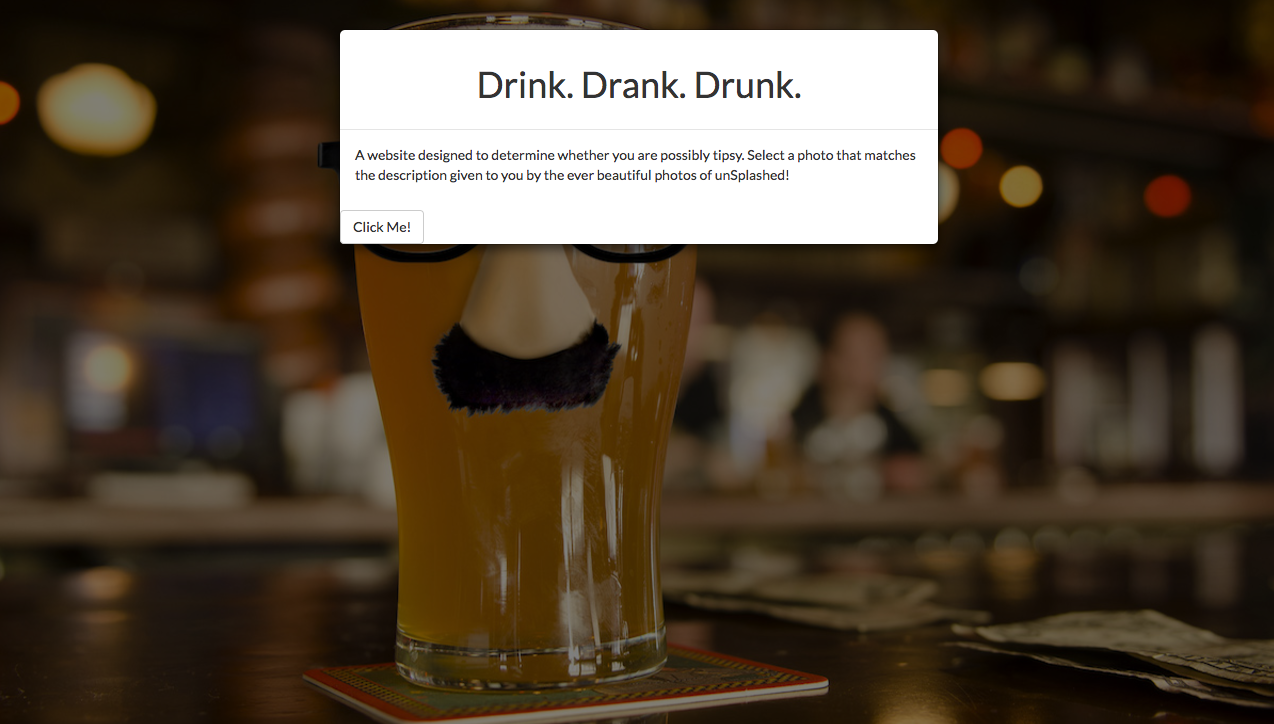
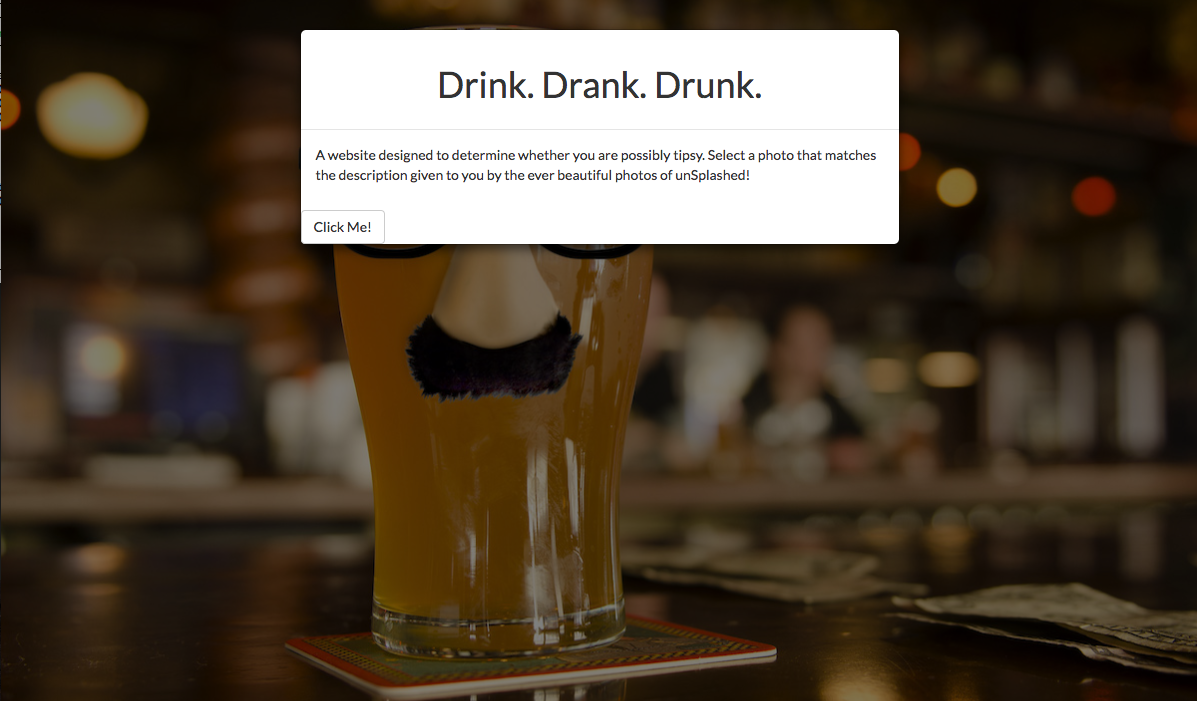
changed links

diff --git a/index.html b/index.html
@@ -36,7 +36,7 @@
         <div class="page" id="top">
 
             <!-- Home Section -->
-            <section class="home-section bg-dark-alfa-30 parallax-2" data-background="images/background.jpeg" id="home">
+            <section class="home-section bg-dark-alfa-30 parallax-2" data-background="images/black_background.jpeg" id="home">
                 <div class="js-height-full">
 
                     <!-- Hero Content -->
@@ -187,7 +187,7 @@
                               to all who are interested in the game.
                                 <br>
                                 <br>
-                                <a href="www.supersmashstats.com" target="_blank" class="fa fa-desktop portfolioLogo"> Live</a> &nbsp
+                                <a href='http://www.supersmashstats.com' target="_blank" class="fa fa-desktop portfolioLogo"> Live</a> &nbsp
                                 <a href="https://github.com/Learning-Fuze/c5.17_smash_stats/tree/dev" target="_blank" class="fa fa-github portfolioLogo"> GitHub</a>
                             </div>
                             <div class="mfp-image">
@@ -508,7 +508,7 @@
 
 
             <!-- Google Map -->
-            <div class="google-map">
+            <!-- <div class="google-map">
 
                 <div data-address="Fullerton, CA, United States" id="map-canvas"></div>
 
@@ -527,11 +527,11 @@
                 </div>
 
             </div>
-            <!-- End Google Map -->
+           End Google Map  -->
 
 
             <!-- Foter -->
-            <footer class="page-section bg-gray-lighter footer pb-60">
+            <footer class="page-section bg-gray footer pb-60">
                 <div class="container">
 
                     <!-- Footer Logo -->
